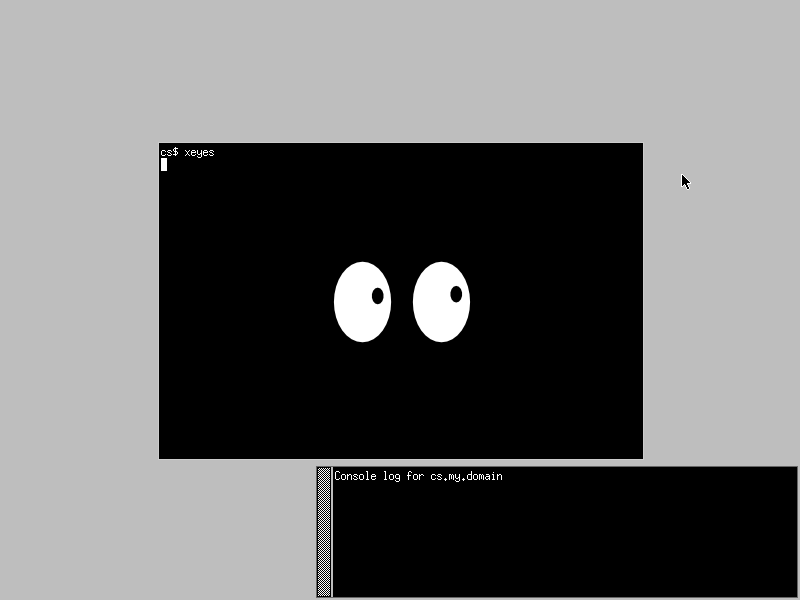
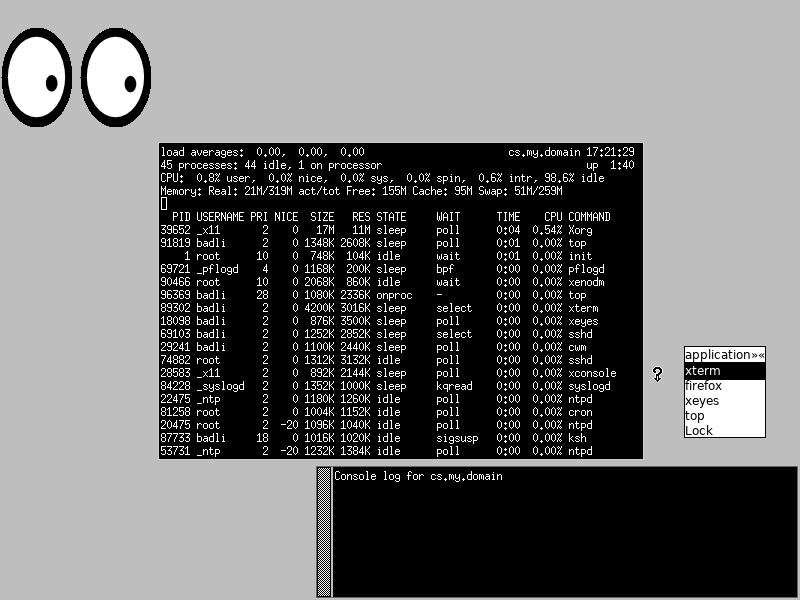
updates ch1 and ch10

diff --git a/ch10_graphics.html b/ch10_graphics.html
@@ -37,6 +37,7 @@
       
       <h2>Sistem X Windows</h2>
 
+
       <h3>startx untuk mula</h3>
       
       <p>Saya mulakan dengan memberi arahan <b>startx</b> dalam shell, tetapi saya berhadapan dengan server error.</p>
@@ -104,8 +105,8 @@
 	dengan <b>ctrl + c</b> secara serentak menekan nya.
       </p>
 
-      <figure><img src="openbsd_notes/xeyes.png" alt="Melancarkan aplikasi xeyes dari xterm di dalam cwm">
-	<figcaption>Saya melancarkan aplikasi <b>xeyes</b> dari <b>xterm</b> di dalam <b>cwm</b></figcaption>
+      <figure><img src="openbsd_notes/xeyes.png" alt="Melancarkan aplikasi xeyes dari di dalam cwm">
+	<figcaption>Saya melancarkan aplikasi <b>xeyes</b> dari di dalam <b>cwm</b></figcaption>
       </figure>
 
       <p>Kalau anda melancarkan <b>firefox</b> ia tidak di ketemui, kerana yang di pasang adalah yang asas sahaja. Anda boleh menggunakan sistem <b>ports</b> untuk memasang
@@ -172,7 +173,35 @@
 	<br>bind-mouse M-2  window-lower
 	<br>bind-mouse M-3  window-resize
       </p>
-            
+
+
+      <h3>Kenapa tidak di aktifkan atau di pasang Sistem X Windows Untuk OpenBSD</h3>
+
+      <p>Falsafah Unix berasaskan modulariti. Iaitu membuat satu aplikasi untuk satu perkara dengan baik. Ini dapat di lihat dengan OpenBSD dengan
+	Xenocara iaitu Sistem X Windows kerana kita boleh tidak memilih langsung untuk memasang Xenocara sama sekali ketika permasangan.
+	Ini membuatkan size permasanagannya lebih kecil, membantu menggurangakan permukaan serangan dan mebebaskan kuasa processor daripada di gunakan.
+      </p>
+
+      <p>OpenBSD prospektif menarik untuk permasang sebagai virtual firewall atau router atau ke dalam perkakas berkuasa rendah seperti Netgate, RCC-VE-2440.
+      </p>  
+
+      <p>Microsoft telah mengikuti pertama kalinya dengan Windows Sever 2008 dengan <b>Server core</b> dan Windows Server 2016 dengan <b>Nano server</b>
+	yang membuatkannya sizenya lebih kecil.
+      </p> 
+
+      <figure><img src="openbsd_notes/nox.png" alt="OpenBSD dengan tidak melancarkan Xenocara">
+	<figcaption><b>Tidak melancarkan</b> xenodm semasa boot</figcaption>
+      </figure>
+
+      <figure><img src="openbsd_notes/withx.png" alt="OpenBSD dengan Xenocana yang telah di lancarkan">
+	<figcaption><b>Melancarkan</b> xenodm semasa boot.</figcaption>
+      </figure>
+
+      <p>Di atas kita boleh melihat perbezaan sistem OpenBSD yang di lancar denagan xenodm telah mempunyaie sebanyak <b> 43 process, menggunakan 13M memori
+	  dan swap 51M </b> berbanding dengan yang tidak melancarkan sebanyak <b> 32 process, meggunakan  8M  memori dan 24M swap</b>.
+      </p> 
+
+      
       
       <h3>Rujukan</h3>
       <ol>

diff --git a/ch1_comic.html b/ch1_comic.html
@@ -59,7 +59,7 @@
 
       <p>Populariti OpenBSD tidaklah banyak berbanding sistem operasi yang lainnya seperti <a href="https://freebsd.org">FreeBSD</a>,
 	<a href="https://www.apple.com/macos/">Apple macOS</a> dan juga<a href="https://www.microsoft.com/en-us/windows">
-	  Microsoft Windows</a>. Namun kebanyakan perisai Unix atau semacam Unix menggunakan aplikasi popular mereka OpenSSH.
+	  Microsoft Windows</a>. Namun kebanyakan perisai Unix atau semacam Unix menggunakan aplikasi popular mereka OpenSSH dan pf.
       </p>
 
       <p><a href="https://openbsdfoundation.org">Yayasan OpenBSD</a> telah di tubuhkan pada tahun 2007 untuk mengurus,
@@ -95,7 +95,8 @@
 	  <li><a href ="https://www.theos/deraadt/coremail.html">2** https://www.theos/deraadt/coremail.html</a></li>
 	  <li><a href ="https://openbsdfoundation.org">Yayasan OpenBSD https://openbsdfoundation.org </a></li>
 	  <li><a href ="https://undeadly.org">OpenBSD Journal https://undeadly.org </a></li>
-	  <li><a href ="https://github.com/openbsd">Halaman Cermin Repositori Github OpenBSD https://github.com/openbsd</a> 
+	  <li><a href ="https://github.com/openbsd">Halaman Cermin Repositori Github OpenBSD https&colon;&sol;&sol;github.com&sol;openbsd</a></li>
+	  <li><a href ="https://opensource.apple.com/source/xnu/xnu-7195.81.3/bsd/net/pf.c.auto.html"> Apple opensource pf https&colon;&sol;&sol;/opensource.apple.com/source/xnu/xnu-7195.81.3/bsd/net/pf.c.auto.html</a></li>
 	</ol>
 
     </article>
